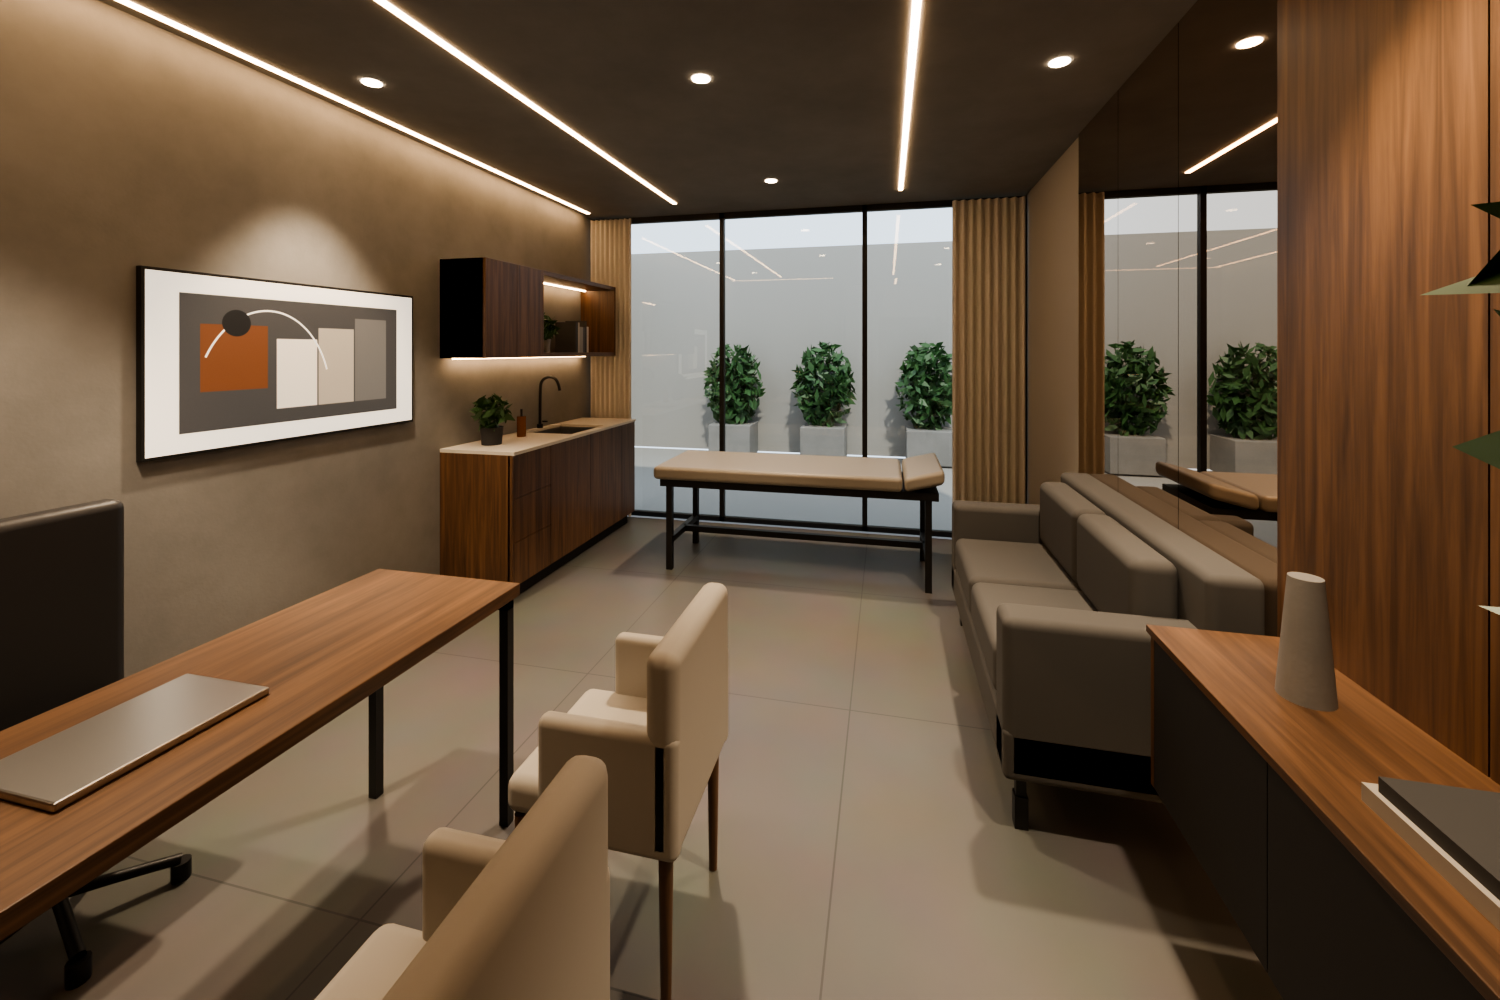
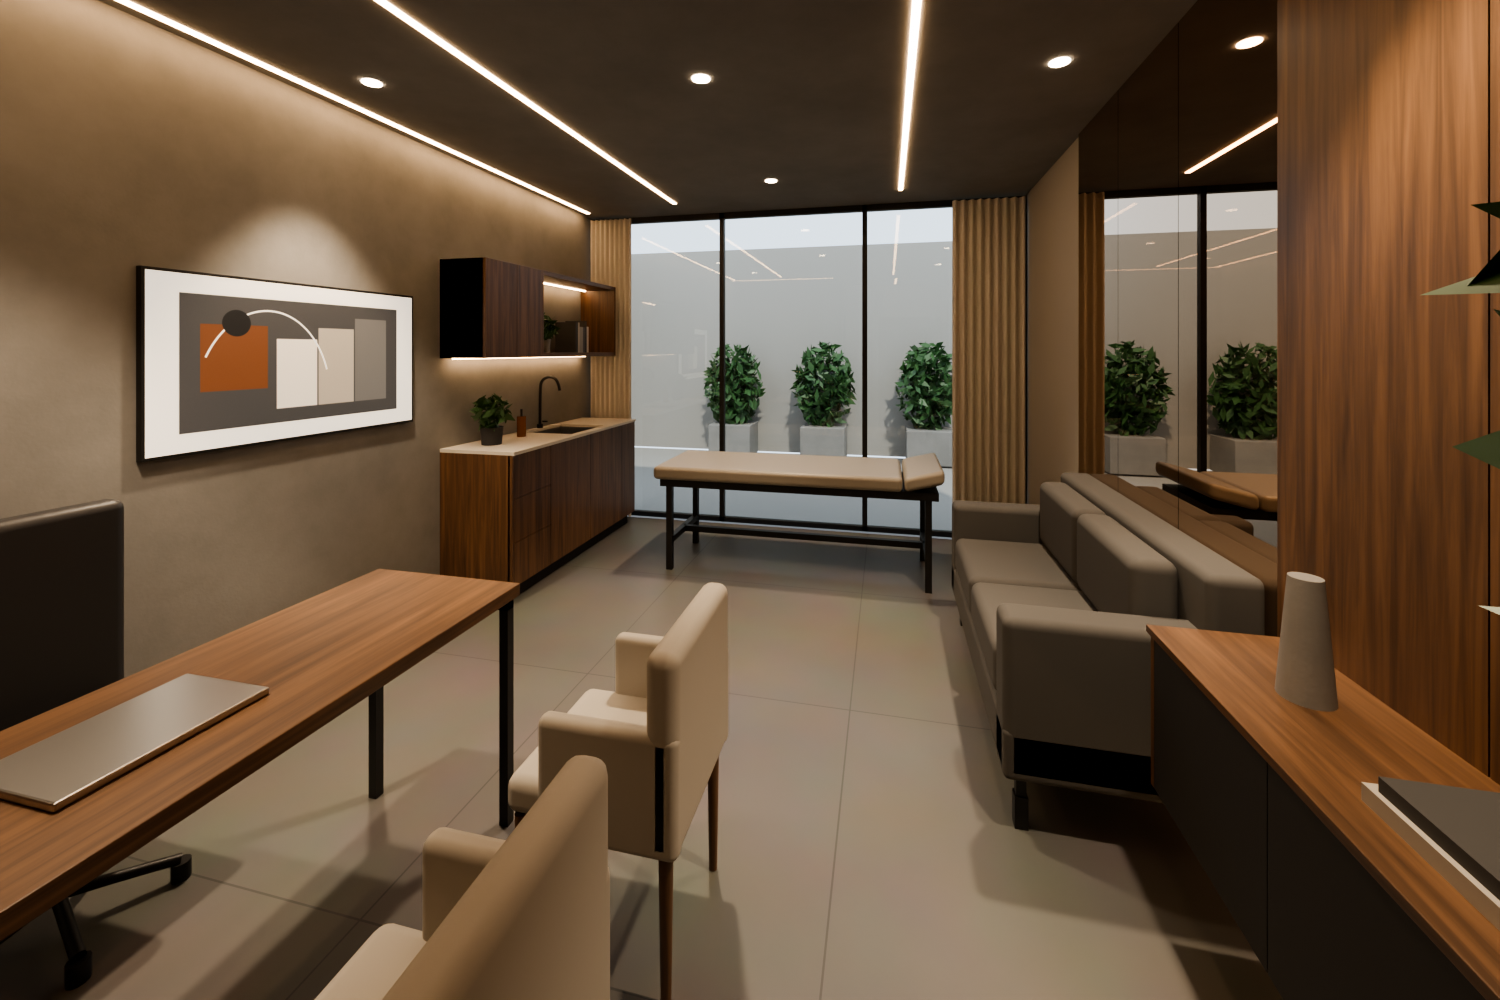
Marca el tono bronce del espejo en el diseno E y actualiza sus dos vistas
Claude-Session: https://claude.ai/code/session_01BqwgGxLmn6aW5tNe9rgPrB

Changed region(s): [[0.7667, 0.217, 0.8587, 0.372]]

diff --git a/consultorio_3d/consultorio.py b/consultorio_3d/consultorio.py
@@ -193,7 +193,7 @@ M = dict(
     patio_wall=flat('muro_patio', (0.36, 0.345, 0.32), 0.9),
     patio_floor=flat('piso_patio', (0.33, 0.32, 0.30), 0.8),
 )
-M['mirror_bronze'] = flat('espejo_bronce', (0.62, 0.50, 0.40), 0.0, 1.0)
+M['mirror_bronze'] = flat('espejo_bronce', (0.50, 0.36, 0.25), 0.0, 1.0)
 M['anthr'] = flat('muro_antracita', (0.045, 0.045, 0.047), 0.85)
 M['graphite'] = flat('tela_grafito', (0.085, 0.083, 0.08), 0.95)
 M['greige_leather'] = flat('piel_greige', (0.30, 0.27, 0.225), 0.45)
